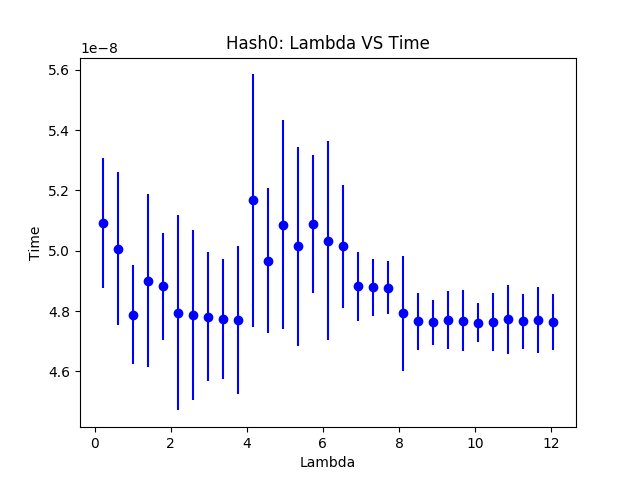
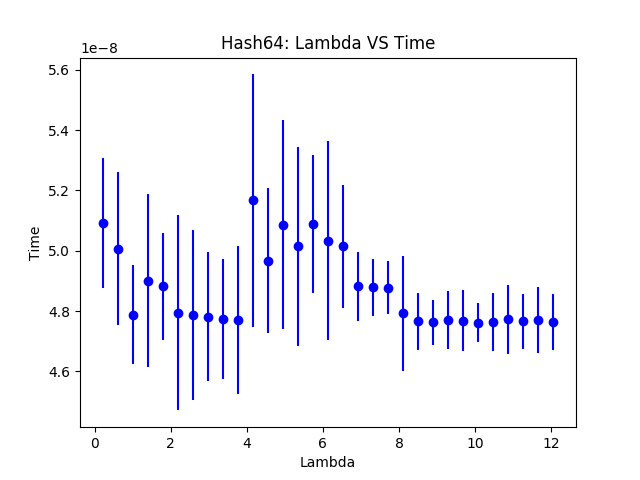
Add files via upload

Changed region(s): [[0.3438, 0.0625, 0.6875, 0.125]]

diff --git a/tarea3/punto2/graficas_hash.py b/tarea3/punto2/graficas_hash.py
@@ -23,7 +23,8 @@ for linea in archivo2:
 
 pp.errorbar(eje_x1, eje_y1, yerr = error1, linestyle = '', marker = 'o', color = 'purple')
 pp.errorbar(eje_x2, eje_y2, yerr = error2, linestyle = '', marker = 'o', color = 'blue')
-pp.title("Hash0: Lambda VS Time")
+pp.legend(('Hash0', 'Hash64'), prop={'size':10}, loc='upper right')
+pp.title("Hash0 vs Hash64")
 pp.xlabel("Lambda")
 pp.ylabel("Time")
 

diff --git a/tarea3/punto2/grafica_hash64.py b/tarea3/punto2/grafica_hash64.py
@@ -12,7 +12,7 @@ for linea in archivo2:
 	error2.append(float(linea[2]))
 
 pp.errorbar(eje_x2, eje_y2, yerr = error2, linestyle = '', marker = 'o', color = 'blue')
-pp.title("Hash0: Lambda VS Time")
+pp.title("Hash64: Lambda VS Time")
 pp.xlabel("Lambda")
 pp.ylabel("Time")
 
